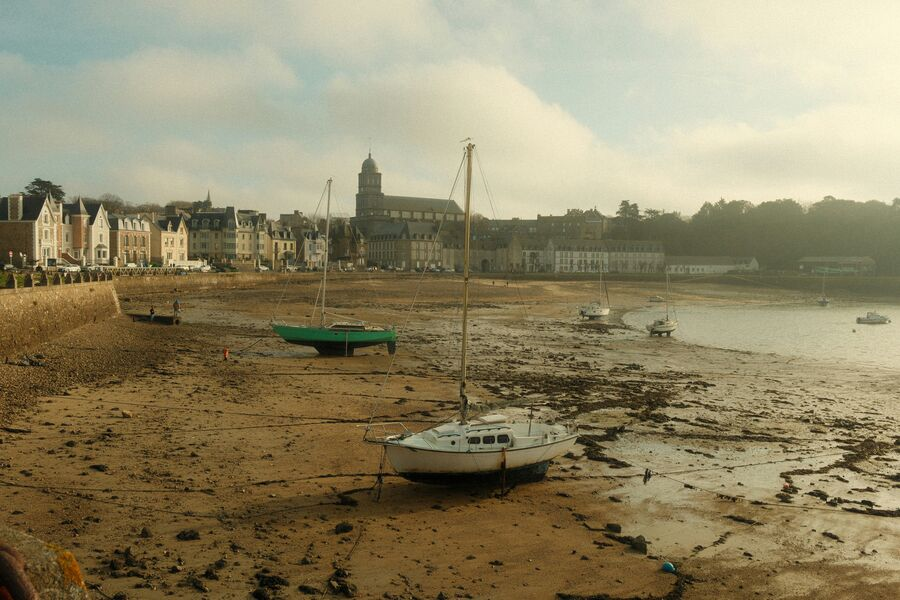
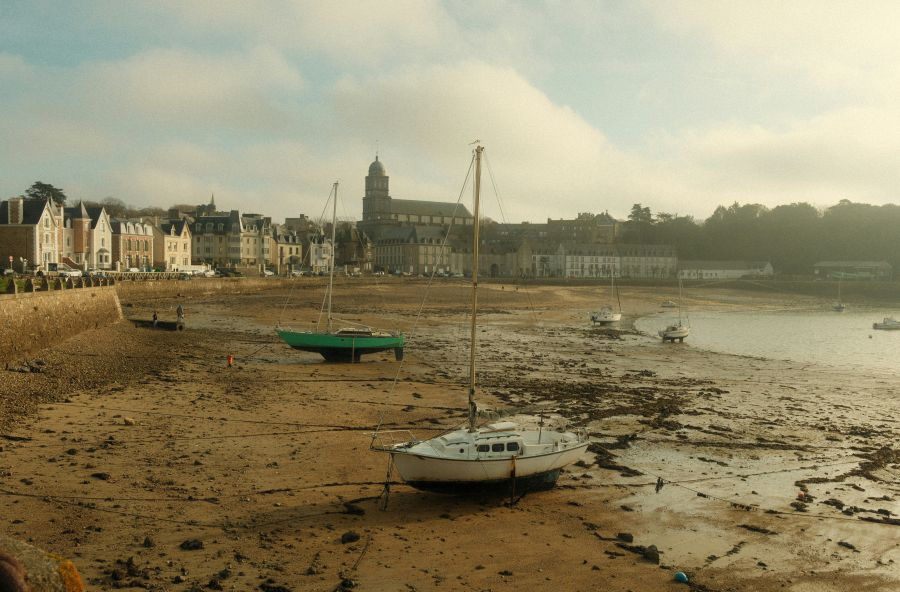
Environnement : cadrages des photos identiques a la maquette ; header
Cadrages : chaque photo de la maquette XD a ete retrouvee dans son image
source par correspondance d'image (OpenCV, plusieurs echelles), puis exportee
exactement avec ce cadrage et les proportions du cadre XD. Les decalages
object-position regles a l'oeil sont supprimes.
- Sternes : toute la largeur de l'image sur une bande plus haute ; la tete de
  l'oiseau n'est plus coupee.
- Hero : tiers gauche et bas de la vue aerienne, et non le centre.
- Grande photo des enjeux : zoom sur la promeneuse et la maisonnette (525 x 511)
  au lieu de l'image entiere.
- Coureur, loutre, saumon, lamproie, petite photo des enjeux, fonds des zones
  protegees et des engagements : proportions et hauteur de cadre recalees.

Collage loutre / saumon / lamproie : la legende du saumon demarrait sur la
photo de la loutre ; elle commence desormais apres. Le chevauchement n'est
applique qu'a partir de 1280 px (en dessous la loutre sortait de l'ecran et le
collage debordait sur le texte) ; grille limitee a 720 px sous ce seuil.

Header :
- Bouton "S'inscrire" agrandi (nouvelle decision) : 160 x 44 px, texte 18 px,
  comme la maquette.
- Logo couleur tant que le header est transparent sur la page Environnement,
  dont le ciel du hero est clair ; blanc une fois le fond noir.
- Liens et selecteur de langue a partir de 1024 px, burger en dessous : entre
  768 et 1023 px les liens passaient sur deux lignes.

Claude-Session: https://claude.ai/code/session_015LAkd9YKbjMretpapgGy98

Changed region(s): [[0.0, 0.2432, 1.0, 1.0]]

diff --git a/app/components/environnement/PatrimoineNaturel.tsx b/app/components/environnement/PatrimoineNaturel.tsx
@@ -40,52 +40,52 @@ export default function PatrimoineNaturel() {
             </div>
           </div>
           <PhotoScotchee
-            src="/photos/_dsc7014.jpg"
+            src="/photos/env-coureur.jpg"
             alt={t("patriAltCoureur")}
-            ratio="410/457"
+            ratio="383/441"
             sizes="(min-width: 1024px) 38vw, 90vw"
             rotation={1.5}
-            className="mx-auto w-full max-w-[380px] lg:-mt-24 lg:mr-0"
+            className="mx-auto w-full max-w-[383px] lg:-mt-24 lg:mr-0"
           />
         </div>
 
         {/* Collage des especes + texte a droite */}
-        <div className="mt-16 grid grid-cols-1 items-start gap-12 lg:mt-12 lg:grid-cols-[1fr_40%] lg:gap-16">
+        <div className="mt-16 grid grid-cols-1 items-start gap-12 lg:mt-12 xl:grid-cols-[1fr_40%] xl:gap-16">
           {/* Collage : empile en grille sur mobile, photos posees en chevauchement
-              sur grand ecran (cotes relevees sur la maquette, loutre 364 px,
-              saumon 274 px, lamproie 290 px) */}
-          <div className="grid grid-cols-[1.15fr_1fr] items-start gap-4 sm:gap-6 lg:relative lg:-ml-[58px] lg:block lg:h-[640px]">
+              sur grand ecran. Cotes et cadrages releves sur la maquette : les
+              fichiers sont recadres exactement comme dans XD. */}
+          <div className="grid max-w-[720px] grid-cols-[1.15fr_1fr] items-start gap-4 sm:gap-6 xl:relative xl:max-w-none xl:-ml-[58px] xl:block xl:h-[560px]">
             <PhotoScotchee
               src="/photos/env-loutre.jpg"
               alt={t("patriAltLoutre")}
-              ratio="900/1150"
-              sizes="(min-width: 1024px) 364px, 50vw"
+              ratio="367/493"
+              sizes="(min-width: 1024px) 367px, 50vw"
               rotation={-2}
               legende={t("patriLoutre")}
-              className="row-span-2 lg:absolute lg:left-0 lg:top-0 lg:w-[364px]"
+              className="row-span-2 xl:absolute xl:left-0 xl:top-0 xl:w-[367px]"
             />
             <PhotoScotchee
               src="/photos/env-saumon.jpg"
               alt={t("patriAltSaumon")}
-              ratio="274/300"
-              sizes="(min-width: 1024px) 274px, 42vw"
+              ratio="276/305"
+              sizes="(min-width: 1024px) 276px, 42vw"
               rotation={2}
-              position="50% 35%"
               legende={t("patriSaumon")}
-              className="pt-6 lg:absolute lg:left-[330px] lg:top-[10px] lg:z-10 lg:w-[274px] lg:pt-0"
+              className="pt-6 xl:absolute xl:left-[333px] xl:top-[9px] xl:z-10 xl:w-[276px] xl:pt-0"
+              legendeClassName="xl:pl-[60px]"
             />
             <PhotoScotchee
               src="/photos/env-lamproie.jpg"
               alt={t("patriAltLamproie")}
-              ratio="900/560"
-              sizes="(min-width: 1024px) 290px, 42vw"
+              ratio="295/142"
+              sizes="(min-width: 1024px) 295px, 42vw"
               rotation={-3}
               legende={t("patriLamproie")}
-              className="lg:absolute lg:left-[420px] lg:top-[390px] lg:z-20 lg:w-[290px]"
+              className="xl:absolute xl:left-[422px] xl:top-[379px] xl:z-20 xl:w-[295px]"
             />
           </div>
 
-          <div className="space-y-5 text-[17px] leading-[1.3] text-dark-700 lg:ml-auto lg:max-w-[400px] lg:pt-24 lg:text-right">
+          <div className="space-y-5 text-[17px] leading-[1.3] text-dark-700 xl:ml-auto xl:max-w-[400px] xl:pt-24 xl:text-right">
             <p>
               {t("patriEspeces1")}
               <Mot>{t("patriLoutre")}</Mot>

diff --git a/app/components/Header.tsx b/app/components/Header.tsx
@@ -11,7 +11,13 @@ import { HEADER_LINKS } from "./navLinks";
 /* Hauteur de scroll a partir de laquelle le header prend son fond opaque */
 const SCROLL_THRESHOLD = 24;
 
-export default function Header() {
+type Props = {
+  /* Logo couleur (texte fonce, "RIA" en bleu) tant que le header est transparent :
+     pour les heros a ciel clair (page Environnement). Blanc une fois le fond noir. */
+  logoFonce?: boolean;
+};
+
+export default function Header({ logoFonce = false }: Props) {
   const t = useTranslations("nav");
   const [scrolled, setScrolled] = useState(false);
 
@@ -31,7 +37,7 @@ export default function Header() {
       <nav className="mx-auto flex max-w-7xl items-center justify-between px-4 py-5 sm:px-6 lg:px-10">
         <Link href="/" aria-label="Ultra Tour de la Ria d'Étel — accueil">
           <Image
-            src="/images/logos/logo-etire-blanc.svg"
+            src={logoFonce && !scrolled ? "/images/logos/logo-principal-couleur.svg" : "/images/logos/logo-etire-blanc.svg"}
             alt="Ultra Tour de la Ria d'Étel"
             width={116}
             height={56}
@@ -41,7 +47,7 @@ export default function Header() {
         </Link>
 
         <div className="flex items-center gap-3 md:gap-6 lg:gap-8">
-          <ul className="hidden items-center gap-6 text-sm font-bold italic uppercase text-white md:flex lg:gap-8">
+          <ul className="hidden items-center gap-8 text-sm font-bold italic uppercase text-white lg:flex">
             {HEADER_LINKS.map((link) => (
               <li key={link.href}>
                 <Link href={link.href} className="transition-opacity hover:opacity-70">
@@ -54,7 +60,7 @@ export default function Header() {
           {/* S'inscrire : degrade bleu en parallelogramme (toujours visible, compact sur mobile) */}
           <a
             href="#inscription"
-            className="group relative px-4 py-2 text-xs font-bold italic uppercase text-white md:px-5 md:py-2.5 md:text-sm"
+            className="group relative px-4 py-2 text-xs font-bold italic uppercase text-white md:px-7 md:py-2 md:text-[18px] md:leading-7"
           >
             <span
               aria-hidden="true"
@@ -64,7 +70,7 @@ export default function Header() {
           </a>
 
           {/* Selecteur de langue (desktop ; sur mobile il est dans le menu) */}
-          <div className="hidden md:block">
+          <div className="hidden lg:block">
             <LanguageSelector />
           </div>
 

diff --git a/app/components/environnement/Enjeux.tsx b/app/components/environnement/Enjeux.tsx
@@ -23,24 +23,23 @@ export default function Enjeux() {
 
         <div className="mt-12 grid grid-cols-1 items-start gap-12 lg:grid-cols-[52%_1fr] lg:gap-16">
           {/* Deux photos posees l'une sur l'autre */}
-          {/* Grande photo 524 x 605 ; la petite (60 %) se pose en bas et deborde
-              a droite de 130 px, comme la maquette */}
-          <div className="relative max-w-[524px] pb-16 lg:-ml-[38px] lg:pb-4">
+          {/* Grande photo 525 x 511 ; la petite (60 %) se pose en bas et deborde
+              a droite, comme la maquette. Fichiers recadres comme dans XD. */}
+          <div className="relative max-w-[525px] pb-24 lg:-ml-[38px] lg:pb-16">
             <PhotoScotchee
               src="/photos/env-enjeux.jpg"
               alt={t("enjAltBalade")}
-              ratio="524/605"
-              sizes="(min-width: 1024px) 46vw, 90vw"
-              position="35% 50%"
+              ratio="525/511"
+              sizes="(min-width: 1024px) 525px, 90vw"
               rotation={-1.5}
             />
             <PhotoScotchee
               src="/photos/env-maree-basse.jpg"
               alt={t("enjAltMaree")}
-              ratio="900/600"
+              ratio="314/212"
               sizes="(min-width: 1024px) 24vw, 50vw"
               rotation={3}
-              className="absolute left-[40%] top-[67%] w-[60%] sm:left-[65%]"
+              className="absolute left-[40%] top-[61%] w-[60%] sm:left-[64.6%]"
             />
           </div>
 

diff --git a/app/components/environnement/PhotoScotchee.tsx b/app/components/environnement/PhotoScotchee.tsx
@@ -13,6 +13,8 @@ type Props = {
   /* Cadrage de la photo (object-position) */
   position?: string;
   className?: string;
+  /* Classes de la legende (decalage quand une photo voisine la recouvre) */
+  legendeClassName?: string;
 };
 
 /*
@@ -29,6 +31,7 @@ export default function PhotoScotchee({
   legende,
   position,
   className = "",
+  legendeClassName = "",
 }: Props) {
   return (
     <figure className={className} style={{ transform: `rotate(${rotation}deg)` }}>
@@ -55,7 +58,9 @@ export default function PhotoScotchee({
         />
       </div>
       {legende && (
-        <figcaption className="font-comico mt-3 flex items-center gap-2 text-[12px] uppercase leading-5 tracking-wide text-[#1c1c1c] sm:text-[13px]">
+        <figcaption
+          className={`font-comico mt-3 flex items-center gap-2 text-[12px] uppercase leading-5 tracking-wide text-[#1c1c1c] sm:text-[13px] ${legendeClassName}`}
+        >
           <Image src="/images/icones/pin.svg?v=2" alt="" width={16} height={16} className="h-4 w-4" />
           {legende}
         </figcaption>

diff --git a/app/components/environnement/Engagements.tsx b/app/components/environnement/Engagements.tsx
@@ -17,7 +17,7 @@ export default function Engagements() {
   const t = useTranslations("environnement");
   return (
     <section id="engagements" className="relative isolate overflow-hidden py-20 text-white lg:py-28">
-      <Image src="/photos/env-engagements.jpg" alt={t("engAlt")} fill sizes="100vw" className="-z-20 object-cover object-[50%_40%]" />
+      <Image src="/photos/env-engagements.jpg" alt={t("engAlt")} fill sizes="100vw" className="-z-20 object-cover" />
       <div className="absolute inset-0 -z-10 bg-gradient-to-r from-dark-900/70 via-dark-900/45 to-dark-900/15" />
 
       <div className="mx-auto max-w-6xl px-6 lg:px-10">

diff --git a/app/components/environnement/EnvironnementSternes.tsx b/app/components/environnement/EnvironnementSternes.tsx
@@ -10,9 +10,8 @@ export default function EnvironnementSternes() {
         <PhotoScotchee
           src="/photos/env-sternes.jpg"
           alt={t("sternesAlt")}
-          ratio="1200/390"
-          sizes="(min-width: 1152px) 1100px, 100vw"
-          position="50% 45%"
+          ratio="1125/338"
+          sizes="(min-width: 1200px) 1125px, 100vw"
           rotation={-0.6}
           legende={t("sternesLegende")}
         />

diff --git a/app/components/environnement/EnvironnementHero.tsx b/app/components/environnement/EnvironnementHero.tsx
@@ -17,7 +17,7 @@ export default function EnvironnementHero() {
         fill
         priority
         sizes="100vw"
-        className="-z-20 object-cover object-[50%_55%]"
+        className="-z-20 object-cover"
       />
       <div className="absolute inset-0 -z-10 bg-gradient-to-b from-dark-900/35 via-dark-900/5 to-dark-900/40" />
 

diff --git a/app/[locale]/environnement/page.tsx b/app/[locale]/environnement/page.tsx
@@ -33,7 +33,7 @@ export default async function Environnement({
 
   return (
     <>
-      <Header />
+      <Header logoFonce />
       <EnvironnementHero />
       <EntrainementIntro namespace="environnement" sobre />
       <EnvironnementSternes />

diff --git a/app/components/MobileMenu.tsx b/app/components/MobileMenu.tsx
@@ -29,7 +29,7 @@ export default function MobileMenu() {
   };
 
   return (
-    <div className="md:hidden">
+    <div className="lg:hidden">
       {/* Bouton burger / croix */}
       <button
         type="button"
